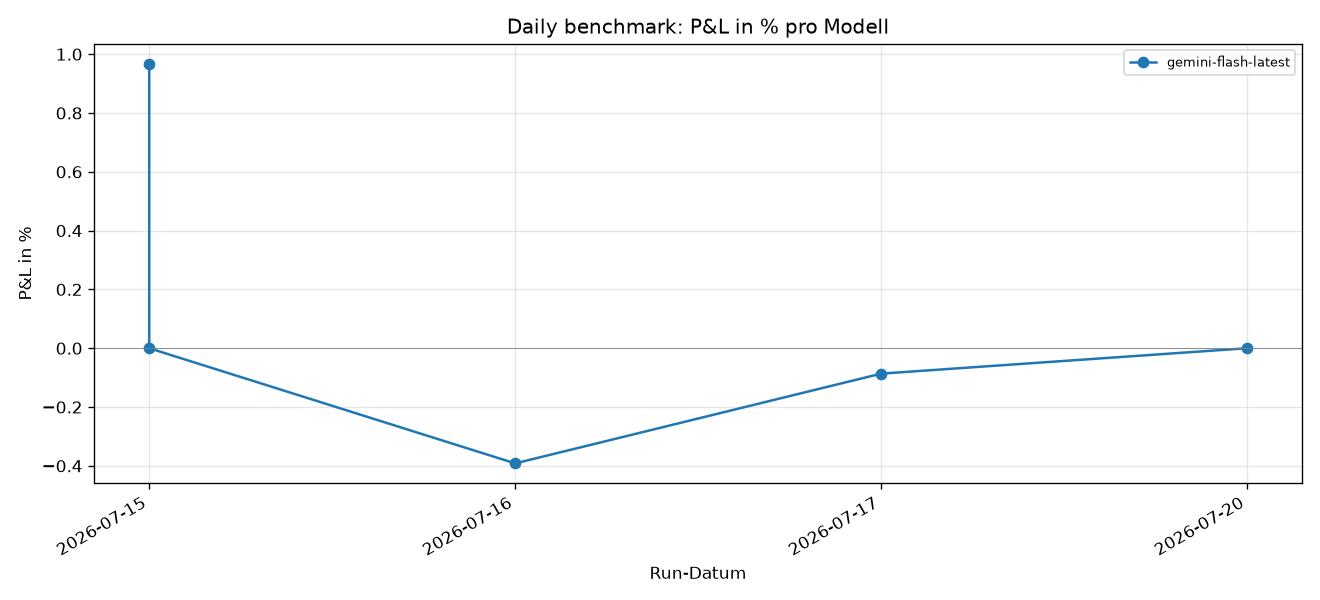
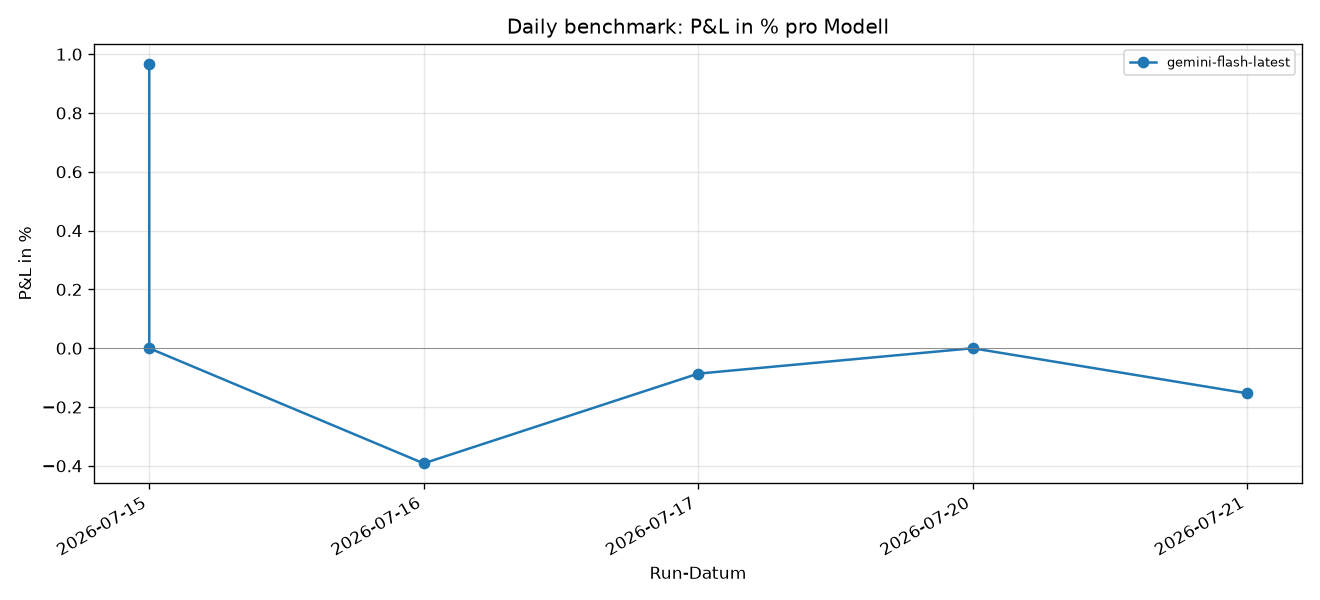
gemini benchmark: 2026-07-21 [skip ci]

diff --git a/docs/index.html b/docs/index.html
@@ -19,17 +19,17 @@
   <h1>AgentTrader — täglicher Modell-Benchmark</h1>
   <p>
     Automatisch generiert aus <code>data/leaderboard.csv</code>.
-    Insgesamt 5 Läufe, 1 Modelle,
-    Zeitraum 2026-07-15 bis 2026-07-20.
+    Insgesamt 6 Läufe, 1 Modelle,
+    Zeitraum 2026-07-15 bis 2026-07-21.
   </p>
 
-  <h2>Letzter Lauf (2026-07-20)</h2>
+  <h2>Letzter Lauf (2026-07-21)</h2>
   <table>
     <thead><tr>
       <th>Modell</th><th>Prompt</th><th>Trades</th>
       <th>Start</th><th>Ende</th><th>P&L %</th><th>Audit</th>
     </tr></thead>
-    <tbody><tr><td>gemini-flash-latest</td><td>v6</td><td>0</td><td>10000.00</td><td>10000.00</td><td><span class="">+0.00 %</span></td><td>✔</td></tr></tbody>
+    <tbody><tr><td>gemini-flash-latest</td><td>v6</td><td>3</td><td>10000.00</td><td>9984.66</td><td><span class="neg">-0.15 %</span></td><td>✔</td></tr></tbody>
   </table>
 
   <h2>Aggregat (alle Läufe)</h2>
@@ -38,7 +38,7 @@
       <th>Modell</th><th>Runs</th><th>Ø P&L %</th>
       <th>Best %</th><th>Worst %</th><th>Ø Trades</th>
     </tr></thead>
-    <tbody><tr><td>gemini-flash-latest</td><td>5</td><td><span class="pos">+0.10 %</span></td><td><span class="pos">+0.97 %</span></td><td><span class="neg">-0.39 %</span></td><td>0.6</td></tr></tbody>
+    <tbody><tr><td>gemini-flash-latest</td><td>6</td><td><span class="pos">+0.06 %</span></td><td><span class="pos">+0.97 %</span></td><td><span class="neg">-0.39 %</span></td><td>1.0</td></tr></tbody>
   </table>
 
   <h2>Verlauf</h2>
